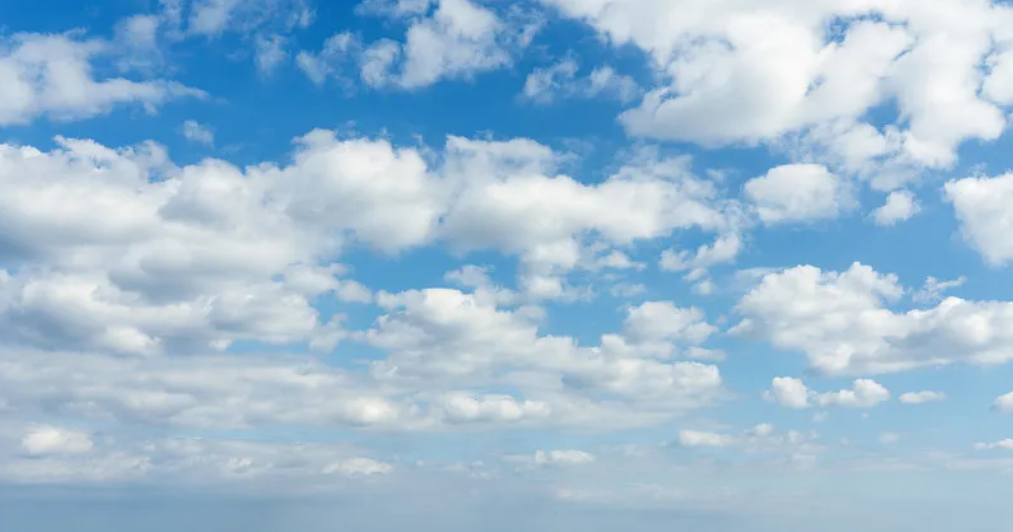
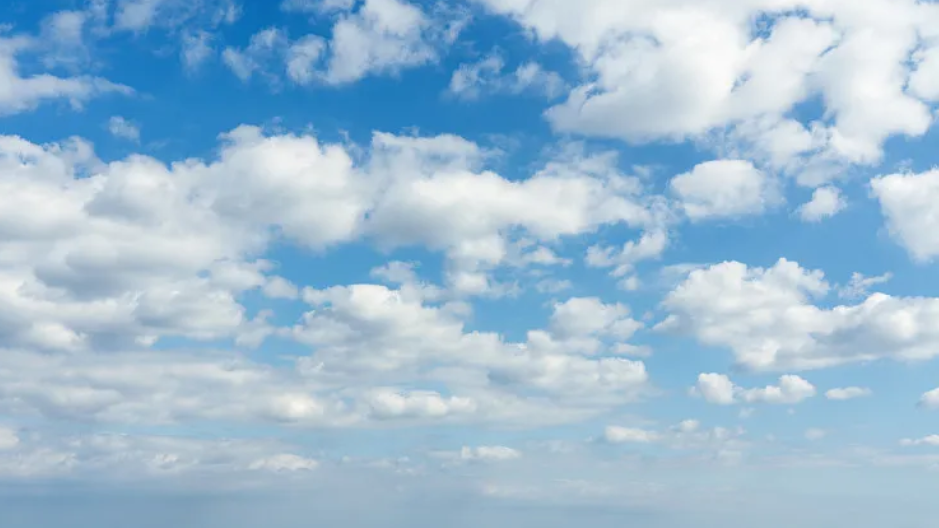
web background image change

diff --git a/front_end/src/components/weather_details/sub_components/CityRanking.vue b/front_end/src/components/weather_details/sub_components/CityRanking.vue
@@ -1,61 +1,62 @@
 <template>
-  <div class="rounded-lg" style="background-color: white;">
+  <div class="rounded-lg" style="background-color: transparent;">
     <!-- <el-card style="width: 100%;"> -->
     <div class="text-xl" style="margin-bottom: 10px;"><el-icon>
         <Histogram />
       </el-icon>&nbsp;&nbsp;实况排行</div>
     <hr />
-      <el-tabs stretch v-model="activeName" @tab-click="handleClick">
-        <el-tab-pane label="最高气温" name="first">
-          <el-table :data="highestTempRankings" height="290" style="width: 100%;margin-top: -12px;" :header-cell-style="{ 'text-align': 'center' }"
-            :cell-style="{ 'text-align': 'center' }">
-            <el-table-column prop="no" label="排名" height="auto" width="70" />
-            <el-table-column prop="city" label="城市" />
-            <el-table-column prop="province" label="所在省份" />
-            <el-table-column prop="item" label="最高气温" />
-          </el-table>
-        </el-tab-pane>
-        <el-tab-pane label="最低气温" name="second">
-          <el-table :data="lowestTempRankings"  height="290" style="width: 100%;margin-top: -12px;"  :header-cell-style="{ 'text-align': 'center' }"
-            :cell-style="{ 'text-align': 'center' }">
-            <el-table-column prop="no" label="排名" height="auto" width="70" />
-            <el-table-column prop="city" label="城市" />
-            <el-table-column prop="province" label="所在省份" />
-            <el-table-column prop="item" label="最低气温" />
-          </el-table>
-        </el-tab-pane>
-        <el-tab-pane label="24小时降水量" name="third">
-          <el-table :data="precipRankings"  height="290" style="width: 100%;margin-top: -12px;"  :header-cell-style="{ 'text-align': 'center' }"
-            :cell-style="{ 'text-align': 'center' }">
-            <el-table-column prop="no" label="排名" height="auto" width="70" />
-            <el-table-column prop="city" label="城市" />
-            <el-table-column prop="province" label="所在省份" />
-            <el-table-column prop="item" label="降水量" />
-          </el-table>
-        </el-tab-pane>
-        <el-tab-pane label="空气质量" name="fourth">
-          <el-table :data="cityAqiRankings"  height="290" style="width: 100%;margin-top: -12px;"  :header-cell-style="{ 'text-align': 'center' }"
-            :cell-style="{ 'text-align': 'center' }">
-            <el-table-column prop="no" label="排名" height="auto" width="70" />
-            <el-table-column prop="city" label="城市" />
-            <el-table-column prop="province" label="所在省份" />
-            <!-- <el-table-column prop="item" label="空气质量" /> -->
-            <el-table-column prop="item" label="空气质量">
-              <template #header>
-                <el-row>
-                  <!-- <el-col :span="12"> -->
-                  空气质量
-                  <!-- </el-col> -->
-                  <!-- <span></span> -->
-                  <!-- <el-col :span="12"> -->
-                  <el-button size="small" type="" :icon="cityAqiIcon" @click="changeAqiOrder()" style="padding: 0px;" />
-                  <!-- </el-col> -->
-                </el-row>
-              </template>
-            </el-table-column>
-          </el-table>
-        </el-tab-pane>
-      </el-tabs>
+    <el-tabs stretch v-model="activeName" @tab-click="handleClick">
+      <el-tab-pane label="最高气温" name="first">
+        <el-table :data="highestTempRankings" height="290"
+          style="background-color: transparent;width: 100%;margin-top: -12px;"
+          :header-cell-style="{ 'text-align': 'center' }" :cell-style="{ 'text-align': 'center' }">
+          <el-table-column prop="no" label="排名" height="auto" width="70" />
+          <el-table-column prop="city" label="城市" />
+          <el-table-column prop="province" label="所在省份" />
+          <el-table-column prop="item" label="最高气温" />
+        </el-table>
+      </el-tab-pane>
+      <el-tab-pane label="最低气温" name="second">
+        <el-table :data="lowestTempRankings" height="290" style="width: 100%;margin-top: -12px;"
+          :header-cell-style="{ 'text-align': 'center' }" :cell-style="{ 'text-align': 'center' }">
+          <el-table-column prop="no" label="排名" height="auto" width="70" />
+          <el-table-column prop="city" label="城市" />
+          <el-table-column prop="province" label="所在省份" />
+          <el-table-column prop="item" label="最低气温" />
+        </el-table>
+      </el-tab-pane>
+      <el-tab-pane label="24小时降水量" name="third">
+        <el-table :data="precipRankings" height="290" style="width: 100%;margin-top: -12px;"
+          :header-cell-style="{ 'text-align': 'center' }" :cell-style="{ 'text-align': 'center' }">
+          <el-table-column prop="no" label="排名" height="auto" width="70" />
+          <el-table-column prop="city" label="城市" />
+          <el-table-column prop="province" label="所在省份" />
+          <el-table-column prop="item" label="降水量" />
+        </el-table>
+      </el-tab-pane>
+      <el-tab-pane label="空气质量" name="fourth">
+        <el-table :data="cityAqiRankings" height="290" style="width: 100%;margin-top: -12px;"
+          :header-cell-style="{ 'text-align': 'center' }" :cell-style="{ 'text-align': 'center' }">
+          <el-table-column prop="no" label="排名" height="auto" width="70" />
+          <el-table-column prop="city" label="城市" />
+          <el-table-column prop="province" label="所在省份" />
+          <!-- <el-table-column prop="item" label="空气质量" /> -->
+          <el-table-column prop="item" label="空气质量">
+            <template #header>
+              <el-row>
+                <!-- <el-col :span="12"> -->
+                空气质量
+                <!-- </el-col> -->
+                <!-- <span></span> -->
+                <!-- <el-col :span="12"> -->
+                <el-button size="small" type="" :icon="cityAqiIcon" @click="changeAqiOrder()" style="padding: 0px;" />
+                <!-- </el-col> -->
+              </el-row>
+            </template>
+          </el-table-column>
+        </el-table>
+      </el-tab-pane>
+    </el-tabs>
     <!-- </el-card> -->
   </div>
 </template>
@@ -177,5 +178,20 @@ const Match = ref(true);
 </script>
 
 
-<style scoped>
+<style lang="scss" scoped>
+::v-deep .el-table{
+    background:rgba(255,255,255,0)
+}
+::v-deep .el-table_expanded-cell{
+    background:rgba(255,255,255,0)
+}
+::v-deep .el-table th{
+    background:rgba(255,255,255,0)
+}
+::v-deep .el-table tr{
+    background:rgba(255,255,255,0)
+}
+::v-deep .el-table td{
+    background:rgba(255,255,255,0)
+}
 </style>

diff --git a/front_end/src/views/home/weatherDetails.vue b/front_end/src/views/home/weatherDetails.vue
@@ -21,15 +21,16 @@
 </template> -->
 
 <template>
-  <div class="common-layout"
+<div :class="mapRainyWeather(weather.condition)" class="bg-cover bg-no-repeat"
     style="margin-left: 1%;margin-right: 1%;max-height:100vh;overflow: auto;border-radius: 5px;">
-    <el-container style="background: white">
+    <el-container style="background: transparent">
       <el-aside width="70%">
-        <el-button size="small" type="" :icon="Switch" style="font-size: xx-small;background-color: transparent;"
+        <!-- <div :class="mapRainyWeather(weather.condition)" class="bg-cover bg-no-repeat"> -->
+        <el-button size="small" type="info" :icon="Switch" style="font-size: xx-small;background-color: transparent;"
           @click="drawer = true">
           切换城市
         </el-button>
-        <el-container class="rounded-lg" style="background: rgb(54, 131, 195);height: 43vh;margin-top: 0px;">
+        <el-container class="rounded-lg" style="background: transparent;height: 43vh;margin-top: 0px;">
           <!-- <el-col :span="16"> -->
           <CurrentWeather class="md:basis-3/5" :weather="weather" :city="city" :search="searchShow">
           </CurrentWeather>
@@ -38,16 +39,16 @@
           <CurrentWeatherRight class="md:basis-3/5" :weather="weather" />
           <!-- </el-col> -->
         </el-container>
-        <el-card  :body-style="{ padding: '0px' }" style="min-height: 20vh;max-height: 43vh;margin-bottom:15px;">
+        <el-card  :body-style="{ padding: '0px' }" style="min-height: 20vh;max-height: 43vh;margin-bottom:15px;background-color:rgb(255,255,255,0.5);border-color: transparent;border-radius: 20px;">
           <RealTimeBroadcast :city="city" />
         </el-card>
       </el-aside>
 
-      <el-main style="width: 800px;">
-        <el-card>
+      <el-main style="width: 800px;background-color:transparent;">
+        <el-card style="background-color:rgb(255,255,255,0.5);border-color: transparent;border-radius: 20px;">
           <BriefAqi :city="city" />
         </el-card>
-        <el-card style="height:53vh;overflow: hidden;">
+        <el-card style="height:53vh;overflow: hidden;background-color:rgb(255,255,255,0.5);border-color: transparent;border-radius: 20px;">
           <CityRanking />
         </el-card>
       </el-main>
@@ -142,7 +143,18 @@ const city = ref<City>({
 });
 const currentCity = ref<CareCity>()
 const careCitiesList = ref<CareCity[]>([])
-const weather = ref({})
+const weather = ref<Weather41>({
+  aqi: 0,
+  humidity: 0,
+  condition: '',
+  condition_icon: 0,
+  precip: 0,
+  precip_probability: 0,
+  pressure: 0,
+  ray: '',
+  temp: 0,
+  temp_feel: 0
+});
 const searchShow = ref(false)
 
 // interface接口
@@ -207,6 +219,28 @@ watch(city, () => {
   get_overview_data();
 }, { deep: true })
 
+// 根据天气换壁纸
+
+const weatherMap = {
+  '晴': 'bg-mobile-sunny',
+  // '下雨': 'bg-mobile-rainy',
+  // '夜晚': 'bg-mobile-night',
+  '多云': 'bg-mobile-cloudy',
+  '阴': 'bg-mobile-overcast'
+};
+// 根据 *雨* 的通配映射到 bg-mobile-rainy
+function mapRainyWeather(chineseWeather: string): string {
+  const currentTime = new Date().getHours();
+  if (chineseWeather.includes('雨')) {
+    return 'bg-mobile-rainy';
+  } 
+  // else if (currentTime >= 20 || currentTime < 5) { // 如果当前时间为晚上（20:00-06:00），返回对应的夜晚背景
+  //   return 'bg-mobile-night';
+  // } 
+  else {
+    return weatherMap[chineseWeather] || 'bg-mobile-sunny'; // 如果没有对应的映射，返回 'Unknown'
+  }
+}
 
 // 抽屉
 import { Delete, House, Plus } from "@element-plus/icons-vue";
@@ -382,7 +416,7 @@ import dataStatistics from "@/components/dataStatistics/dataStatistics.vue";
 }
 
 .chart {
-  width: 95%;
+  width: 97%;
   height: 92%;
   background: linear-gradient(to bottom, #ffffff, #ffffff);
   margin: 0 auto;

diff --git a/front_end/src/components.d.ts b/front_end/src/components.d.ts
@@ -49,11 +49,16 @@ declare module 'vue' {
     ElMain: typeof import('element-plus/es')['ElMain']
     ElMenu: typeof import('element-plus/es')['ElMenu']
     ElMenuItem: typeof import('element-plus/es')['ElMenuItem']
+    ElOption: typeof import('element-plus/es')['ElOption']
     ElRow: typeof import('element-plus/es')['ElRow']
+    ElSelect: typeof import('element-plus/es')['ElSelect']
+    ElSlider: typeof import('element-plus/es')['ElSlider']
+    ElSwitch: typeof import('element-plus/es')['ElSwitch']
     ElTable: typeof import('element-plus/es')['ElTable']
     ElTableColumn: typeof import('element-plus/es')['ElTableColumn']
     ElTabPane: typeof import('element-plus/es')['ElTabPane']
     ElTabs: typeof import('element-plus/es')['ElTabs']
+    ElTag: typeof import('element-plus/es')['ElTag']
     ElTooltip: typeof import('element-plus/es')['ElTooltip']
     Footer: typeof import('./components/footer/index.vue')['default']
     Manage: typeof import('./components/manage/index.vue')['default']

diff --git a/front_end/src/components/weather_details/sub_components/CurrentWeather.vue b/front_end/src/components/weather_details/sub_components/CurrentWeather.vue
@@ -31,7 +31,7 @@
         max-md:justify-between
         relative
         special-font" style="margin-top: 110px;">
-        <div class="max-md:relative opacity-30">
+        <div class="max-md:relative opacity-80">
           <!-- <QWeatherIcon class="max-md:absolute " :icon="props.weather.icon" :size="300" :fill="true" /> -->
           <!-- <el-icon size="150" color="yellow">
             <Sunny />
@@ -40,7 +40,7 @@
         </div>
         <div class="flex flex-col md:ml-10 ">
 
-          <span class="text-5xl bg-clip-text text-transparent bg-gradient-to-br from-white from-40% ..."
+          <span class="text-5xl bg-clip-text text-transparent bg-gradient-to-br from-white from-70% ..."
             style="margin-bottom: 20px;">{{
               `${weather.temp}°C` }}</span>
           <span class="text-3xl max-md:hidden">&nbsp;{{ weather.condition }}</span>

diff --git a/front_end/src/components/weather_details/sub_components/CurrentWeatherRight.vue b/front_end/src/components/weather_details/sub_components/CurrentWeatherRight.vue
@@ -1,5 +1,5 @@
 <template>
-  <div class="w-full text-[#333333] font-semibold text-md flex-wrap" style="font-size: 20px;"
+  <div class="w-full text-[#333333] font-semibold text-md flex-wrap" style="font-size: 20px;background-color:transparent;"
     >
     <div class="
         flex 
@@ -10,7 +10,7 @@
         bg-[#FFFFFF] 
         shadow-[0_10px_30px_-12px_rgba(7,89,133,0.45)] 
         h-full
-      ">
+      " style="background-color:rgb(255,255,255,0.5);">
       <div class="flex justify-between">
         <!-- <span>天气详情</span> -->
         <!-- <button @click="refresh"><img class="w-6 h-6" src="@/assets/refresh.png" alt="refresh"></button> -->

diff --git a/front_end/src/components/weather_details/sub_components/BriefAqi.vue b/front_end/src/components/weather_details/sub_components/BriefAqi.vue
@@ -52,7 +52,7 @@
       </template>
       <!-- <el-row>
         <el-col :span="9"> -->
-      <el-button class="quality-description text-slate-600" style="border: none;">
+      <el-button class="quality-description text-slate-600" style="border: none;background-color: transparent;">
         {{ category_ }}
       </el-button>
       <!-- </el-col> -->

diff --git a/front_end/src/components/weather_details/sub_components/RealTimeBroadcast.vue b/front_end/src/components/weather_details/sub_components/RealTimeBroadcast.vue
@@ -1,6 +1,6 @@
 <template>
   <link rel="stylesheet" href="https://cdn.jsdelivr.net/npm/qweather-icons@1.3.0/font/qweather-icons.css">
-  <div class="common-layout" style="background:white;">
+  <div class="common-layout" style="background:transparent;border-color: transparent;">
     <!-- {{ city }} -->
     <el-container>
       <el-header>
